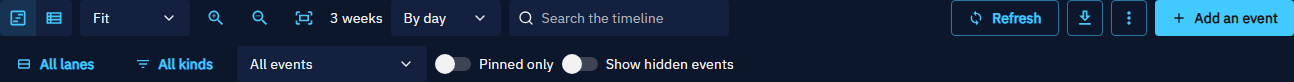
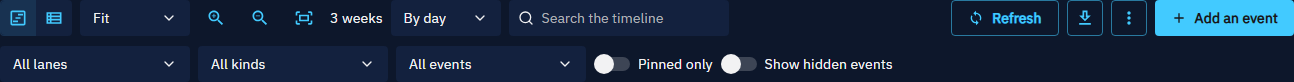
fix(timeline): give the three filters of the timeline toolbar the style of a select (#18681)
- The design-system Select takes a single value: the lanes and kinds
  filters, which take several, use the design-system Combobox in multiple
  mode, read-only, with the summary of the selection in its field
  ("All lanes", "Lanes (2)"). The three filters of the second row are the
  same filled 36 px field, 190 px wide.
- Lanes and kinds share one model: pick the ones to show, every one is
  shown when none is picked, and the clear button resets them
  ("Clear the lanes" in every language file).
- The unit tests, the e2e flow, the user documentation and its screenshots
  follow.

Changed region(s): [[0.2782, 0.6585, 0.711, 0.9024], [0.0, 0.7073, 0.2473, 0.8537]]

diff --git a/opencti-platform/opencti-front/src/private/components/common/timeline/ContainerTimelineToolbar.tsx b/opencti-platform/opencti-front/src/private/components/common/timeline/ContainerTimelineToolbar.tsx
@@ -4,13 +4,18 @@ import {
   Badge,
   ButtonGroup,
   ButtonGroupItem,
-  Checkbox,
+  Combobox,
+  ComboboxClear,
+  ComboboxContent,
+  ComboboxControls,
+  ComboboxField,
+  ComboboxInput,
+  ComboboxTrigger,
   IconButton,
   Menu,
   MenuContent,
   MenuItem,
   MenuLabel,
-  MenuSeparator,
   MenuTrigger,
   SearchField,
   Select,
@@ -27,14 +32,12 @@ import {
 import {
   AddOutlined,
   AutorenewOutlined,
-  FilterListOutlined,
   FitScreenOutlined,
   GetAppOutlined,
   MoreVertOutlined,
   SettingsOutlined,
   SyncOutlined,
   ViewListOutlined,
-  ViewStreamOutlined,
   ViewTimelineOutlined,
   ZoomInOutlined,
   ZoomOutOutlined,
@@ -105,6 +108,60 @@ const ToolbarSwitch = ({ checked, onCheckedChange, label }: { checked: boolean; 
   );
 };
 
+interface ToolbarFilterOption {
+  value: string;
+  label: string;
+  color?: string;
+}
+
+// The design-system Select picks a single value: a filter on several values is the library Combobox in multiple mode,
+// read-only, so that its field shows the summary of the selection where a select shows its value
+const ToolbarMultiFilter = ({ label, summary, clearLabel, options, selected, onSelectedChange, testId }: {
+  label: string;
+  summary: string;
+  clearLabel: string;
+  options: ToolbarFilterOption[];
+  selected: readonly string[];
+  onSelectedChange: (values: string[]) => void;
+  testId: string;
+}) => {
+  const theme = useTheme<Theme>();
+  return (
+    <div style={{ width: 190 }} data-testid={testId}>
+      <Combobox<ToolbarFilterOption>
+        multiple
+        clearable
+        options={options}
+        value={options.filter((option) => selected.includes(option.value))}
+        onValueChange={(next) => onSelectedChange(((next ?? []) as ToolbarFilterOption[]).map((option) => option.value))}
+        getOptionLabel={(option) => option.label}
+        isOptionEqualToValue={(a, b) => a.value === b.value}
+        filterOptions={(all) => all}
+        inputValue={summary}
+        onInputChange={() => {}}
+        selectOnFocus={false}
+        labelPosition="none"
+        renderOption={(option) => (option.color ? (
+          <span style={{ display: 'inline-flex', alignItems: 'center', gap: theme.spacing(1) }}>
+            {/* The marker of the lane in the lanes view */}
+            <span aria-hidden="true" style={{ width: 4, height: 14, borderRadius: 2, backgroundColor: option.color }} />
+            {option.label}
+          </span>
+        ) : option.label)}
+      >
+        <ComboboxField>
+          <ComboboxInput aria-label={label} readOnly style={{ cursor: 'pointer' }} />
+          <ComboboxControls>
+            <ComboboxClear aria-label={clearLabel} />
+            <ComboboxTrigger />
+          </ComboboxControls>
+        </ComboboxField>
+        <ComboboxContent listAriaLabel={label} />
+      </Combobox>
+    </div>
+  );
+};
+
 const ContainerTimelineToolbar = ({
   state,
   onChange,
@@ -128,21 +185,10 @@ const ContainerTimelineToolbar = ({
   const lanes = TIMELINE_LANES.filter((lane) => enabledLanes.includes(lane));
   // A lane kept in the URL but disabled in the settings since is left out, as it is for the events shown
   const requestedLanes = state.lanes.filter((lane) => lanes.includes(lane));
-  const selectedLanes = requestedLanes.length > 0 ? requestedLanes : lanes;
-  const allLanesSelected = selectedLanes.length === lanes.length;
   // The search field follows the URL (for example after "Clear filters") and keeps what is typed until it is submitted
   const [searchText, setSearchText] = useState(state.search ?? '');
   useEffect(() => setSearchText(state.search ?? ''), [state.search]);
 
-  const toggleLane = (lane: TimelineLane) => {
-    const next = selectedLanes.includes(lane) ? selectedLanes.filter((l) => l !== lane) : [...selectedLanes, lane];
-    // Every enabled lane selected is the default view: keep the URL clean
-    onChange({ lanes: next.length === lanes.length || next.length === 0 ? [] : next });
-  };
-  const toggleKind = (kind: string) => {
-    const next = state.kinds.includes(kind) ? state.kinds.filter((k) => k !== kind) : [...state.kinds, kind];
-    onChange({ kinds: next });
-  };
   const sourceValue = state.sources.length === 1 ? state.sources[0] : 'all';
 
   return (
@@ -262,74 +308,25 @@ const ContainerTimelineToolbar = ({
         )}
       </div>
       <div style={{ display: 'flex', alignItems: 'center', gap: theme.spacing(1), flexWrap: 'wrap' }}>
-        <Menu>
-          <MenuTrigger asChild>
-            <Button variant="tertiary" startIcon={<ViewStreamOutlined fontSize="small" />} data-testid="timeline-lanes-filter">
-              {allLanesSelected ? t_i18n('All lanes') : t_i18n('Lanes ({count})', { values: { count: selectedLanes.length } })}
-            </Button>
-          </MenuTrigger>
-          <MenuContent align="start">
-            <MenuLabel>{t_i18n('Lanes')}</MenuLabel>
-            {lanes.map((lane) => {
-              const active = selectedLanes.includes(lane);
-              return (
-                <MenuItem
-                  key={lane}
-                  role="menuitemcheckbox"
-                  aria-checked={active}
-                  startIcon={<Checkbox checked={active} presentational />}
-                  onSelect={(event) => {
-                    // Keep the menu open while several lanes are switched
-                    event.preventDefault();
-                    toggleLane(lane);
-                  }}
-                  data-testid={`timeline-lane-${lane}`}
-                >
-                  <span style={{ display: 'inline-flex', alignItems: 'center', gap: theme.spacing(1) }}>
-                    {/* The marker of the lane in the lanes view */}
-                    <span aria-hidden="true" style={{ width: 4, height: 14, borderRadius: 2, backgroundColor: colors.lanes[lane] }} />
-                    {t_i18n(TIMELINE_LANE_LABELS[lane])}
-                  </span>
-                </MenuItem>
-              );
-            })}
-          </MenuContent>
-        </Menu>
-        <Menu>
-          <MenuTrigger asChild>
-            <Button variant="tertiary" startIcon={<FilterListOutlined fontSize="small" />}>
-              {state.kinds.length > 0 ? t_i18n('Kinds ({count})', { values: { count: state.kinds.length } }) : t_i18n('All kinds')}
-            </Button>
-          </MenuTrigger>
-          <MenuContent align="start" style={{ maxHeight: 360, overflowY: 'auto' }}>
-            <MenuLabel>{t_i18n('Event kinds')}</MenuLabel>
-            {TIMELINE_KINDS.map((kind) => {
-              const checked = state.kinds.includes(kind);
-              // A presentational box renders no label: the row carries the text and the checked state
-              return (
-                <MenuItem
-                  key={kind}
-                  role="menuitemcheckbox"
-                  aria-checked={checked}
-                  startIcon={<Checkbox checked={checked} presentational />}
-                  onSelect={(event) => {
-                    // Keep the menu open while several kinds are picked
-                    event.preventDefault();
-                    toggleKind(kind);
-                  }}
-                >
-                  {t_i18n(TIMELINE_KIND_LABELS[kind])}
-                </MenuItem>
-              );
-            })}
-            {state.kinds.length > 0 && (
-              <>
-                <MenuSeparator />
-                <MenuItem onSelect={() => onChange({ kinds: [] })}>{t_i18n('Clear the kinds')}</MenuItem>
-              </>
-            )}
-          </MenuContent>
-        </Menu>
+        <ToolbarMultiFilter
+          label={t_i18n('Lanes')}
+          summary={requestedLanes.length > 0 ? t_i18n('Lanes ({count})', { values: { count: requestedLanes.length } }) : t_i18n('All lanes')}
+          clearLabel={t_i18n('Clear the lanes')}
+          options={lanes.map((lane) => ({ value: lane, label: t_i18n(TIMELINE_LANE_LABELS[lane]), color: colors.lanes[lane] }))}
+          selected={requestedLanes}
+          // Every enabled lane picked is the default view: keep the URL clean
+          onSelectedChange={(next) => onChange({ lanes: next.length === lanes.length ? [] : next as TimelineLane[] })}
+          testId="timeline-lanes-filter"
+        />
+        <ToolbarMultiFilter
+          label={t_i18n('Event kinds')}
+          summary={state.kinds.length > 0 ? t_i18n('Kinds ({count})', { values: { count: state.kinds.length } }) : t_i18n('All kinds')}
+          clearLabel={t_i18n('Clear the kinds')}
+          options={TIMELINE_KINDS.map((kind) => ({ value: kind, label: t_i18n(TIMELINE_KIND_LABELS[kind]) }))}
+          selected={state.kinds}
+          onSelectedChange={(next) => onChange({ kinds: next })}
+          testId="timeline-kinds-filter"
+        />
         <Select value={sourceValue} onValueChange={(value) => onChange({ sources: value === 'all' ? [] : [value as TimelineSource] })}>
           <SelectTrigger aria-label={t_i18n('Event source')} style={{ minWidth: 190 }}>
             <SelectValue />

diff --git a/opencti-platform/opencti-front/src/private/components/common/timeline/ContainerTimelineToolbar.test.tsx b/opencti-platform/opencti-front/src/private/components/common/timeline/ContainerTimelineToolbar.test.tsx
@@ -41,30 +41,40 @@ describe('ContainerTimelineToolbar', () => {
   it('names every kind of the kinds filter, shows which are selected and toggles them', async () => {
     const onChange = vi.fn();
     const { user } = testRender(<ContainerTimelineToolbar {...toolbarProps(baseState({ kinds: ['sighting'] }), onChange)} />);
-    await user.click(screen.getByRole('button', { name: 'Kinds (1)' }));
-    expect(screen.getAllByRole('menuitemcheckbox')).toHaveLength(TIMELINE_KINDS.length);
-    expect(screen.getByRole('menuitemcheckbox', { name: 'Sighting' })).toHaveAttribute('aria-checked', 'true');
-    const malwareSeen = screen.getByRole('menuitemcheckbox', { name: 'Malware seen' });
-    expect(malwareSeen).toHaveAttribute('aria-checked', 'false');
+    const kinds = screen.getByRole('combobox', { name: 'Event kinds' });
+    expect(kinds).toHaveValue('Kinds (1)');
+    await user.click(kinds);
+    expect(screen.getAllByRole('option')).toHaveLength(TIMELINE_KINDS.length);
+    expect(screen.getByRole('option', { name: 'Sighting' })).toHaveAttribute('aria-selected', 'true');
+    const malwareSeen = screen.getByRole('option', { name: 'Malware seen' });
+    expect(malwareSeen).toHaveAttribute('aria-selected', 'false');
     await user.click(malwareSeen);
     expect(onChange).toHaveBeenCalledWith({ kinds: ['sighting', 'malware_seen'] });
   });
 
-  it('shows every enabled lane selected when the lane kept in the URL was disabled since', async () => {
+  it('shows every lane when the lane kept in the URL was disabled since, and leaves the disabled lane out', async () => {
     const enabled = TIMELINE_LANES.filter((lane) => lane !== 'evidence');
     const { user } = testRender(<ContainerTimelineToolbar {...toolbarProps(baseState({ lanes: ['evidence'] }), vi.fn(), enabled)} />);
-    await user.click(screen.getByRole('button', { name: 'All lanes' }));
-    expect(screen.queryByTestId('timeline-lane-evidence')).toBeNull();
-    enabled.forEach((lane) => expect(screen.getByTestId(`timeline-lane-${lane}`)).toHaveAttribute('aria-checked', 'true'));
+    const lanesFilter = screen.getByRole('combobox', { name: 'Lanes' });
+    expect(lanesFilter).toHaveValue('All lanes');
+    await user.click(lanesFilter);
+    expect(screen.queryByRole('option', { name: 'Evidence' })).toBeNull();
+    expect(screen.getAllByRole('option')).toHaveLength(enabled.length);
+    screen.getAllByRole('option').forEach((option) => expect(option).toHaveAttribute('aria-selected', 'false'));
   });
 
-  it('counts the lanes shown and switches one off from the lanes menu', async () => {
+  it('counts the lanes picked, adds and removes one, and clears them', async () => {
     const onChange = vi.fn();
     const { user } = testRender(<ContainerTimelineToolbar {...toolbarProps(baseState({ lanes: ['adversary', 'detection'] }), onChange)} />);
-    await user.click(screen.getByRole('button', { name: 'Lanes (2)' }));
-    expect(screen.getByRole('menuitemcheckbox', { name: 'Response' })).toHaveAttribute('aria-checked', 'false');
-    await user.click(screen.getByRole('menuitemcheckbox', { name: 'Detection' }));
-    expect(onChange).toHaveBeenCalledWith({ lanes: ['adversary'] });
+    const lanesFilter = screen.getByRole('combobox', { name: 'Lanes' });
+    expect(lanesFilter).toHaveValue('Lanes (2)');
+    await user.click(lanesFilter);
+    await user.click(screen.getByRole('option', { name: 'Detection' }));
+    expect(onChange).toHaveBeenLastCalledWith({ lanes: ['adversary'] });
+    await user.click(screen.getByRole('option', { name: 'Response' }));
+    expect(onChange).toHaveBeenLastCalledWith({ lanes: ['adversary', 'detection', 'response'] });
+    await user.click(screen.getByRole('button', { name: 'Clear the lanes' }));
+    expect(onChange).toHaveBeenLastCalledWith({ lanes: [] });
   });
 
   it('names the switches by their labels and puts the primary action last', async () => {

diff --git a/opencti-platform/opencti-front/tests_e2e/timeline/caseTimeline.spec.ts b/opencti-platform/opencti-front/tests_e2e/timeline/caseTimeline.spec.ts
@@ -30,7 +30,7 @@ const timelineCodename = () => {
  * Derive the timeline of a seeded incident response.
  * Check the overview strip and the position of the Timeline tab (after Content).
  * Check the lanes view, the anchors and the list view kept in the URL.
- * Switch a lane off and open the kinds filter.
+ * Restrict the view to one lane, open the kinds filter and clear the lanes.
  * Open an event with the keyboard, pin it and filter on pinned events.
  * Add a milestone from the drawer form, hide it and show hidden events again.
  * Record a containment and check the containment anchor.
@@ -77,26 +77,22 @@ test('Incident and case timeline', { tag: ['@ce', '@group1'] }, async ({ page, r
     await capture('lanes-populated');
     // endregion
 
-    // region Filters: one lane switched off and the kinds menu open
-    const lanesFilter = page.getByTestId('timeline-lanes-filter');
-    const evidenceLane = page.getByTestId('timeline-lane-evidence');
+    // region Filters: the view restricted to the Response lane (the opening of the case is there) and the kinds list open
+    const lanesFilter = page.getByRole('combobox', { name: 'Lanes' });
     await lanesFilter.click();
-    await evidenceLane.click();
-    await expect(evidenceLane).toHaveAttribute('aria-checked', 'false');
+    const responseLane = page.getByRole('option', { name: 'Response', exact: true });
+    await responseLane.click();
+    await expect(responseLane).toHaveAttribute('aria-selected', 'true');
     await page.keyboard.press('Escape');
-    await expect(lanesFilter).toHaveText(/^Lanes \(\d+\)$/);
+    await expect(lanesFilter).toHaveValue('Lanes (1)');
     await expect(page.getByTestId('timeline-lanes')).toBeVisible();
-    await page.getByRole('button', { name: 'All kinds' }).click();
-    await expect(page.getByText('Event kinds', { exact: true })).toBeVisible();
+    await page.getByRole('combobox', { name: 'Event kinds' }).click();
     // Every kind is a named, checkable row
-    await expect(page.getByRole('menuitemcheckbox', { name: 'Malware seen', exact: true })).toHaveAttribute('aria-checked', 'false');
+    await expect(page.getByRole('option', { name: 'Malware seen', exact: true })).toHaveAttribute('aria-selected', 'false');
     await capture('filters');
     await page.keyboard.press('Escape');
-    await lanesFilter.click();
-    await evidenceLane.click();
-    await expect(evidenceLane).toHaveAttribute('aria-checked', 'true');
-    await page.keyboard.press('Escape');
-    await expect(lanesFilter).toHaveText('All lanes');
+    await page.getByRole('button', { name: 'Clear the lanes' }).click();
+    await expect(lanesFilter).toHaveValue('All lanes');
     // endregion
 
     // region List view, keyboard navigation, pin

diff --git a/docs/docs/usage/case-timeline.md b/docs/docs/usage/case-timeline.md
@@ -125,12 +125,12 @@ When the events cannot be loaded, the tab says so, suggests checking the connect
 - **Lanes** and **List**: the view switch is always visible at the start of the toolbar; the primary action **Add an event** closes it on the right, after **Refresh**, **Export the timeline** and **More actions**. The list view is a vertical, accessible list of events.
 - **Zoom window**: Fit, Day, Week, Month, Quarter or Year; the period currently displayed is shown next to the zoom controls. In the lanes view, use `+` and `-` to zoom, the left and right arrows to pan and `0` to fit. On long incidents, nearby events are grouped into a count bubble that zooms in on click.
 - **Group by**: hour, day or week.
-- **Search** and filters: lanes (**All lanes** menu, every lane shown by default), event kinds (**All kinds** menu), event source (all events, derived from the knowledge or analyst milestones), **Pinned only** and **Show hidden events**.
+- **Search** and filters: lanes and event kinds (pick the ones to show; every lane and every kind is shown when none is picked, and the field counts the ones picked), event source (all events, derived from the knowledge or analyst milestones), **Pinned only** and **Show hidden events**.
 - The current view (filters, zoom, grouping, mode) is kept in the URL, so that a view can be shared with a link.
 - The latest 500 events matching the filters are loaded first and displayed in chronological order; **Show earlier events** loads the previous ones. A link to an older event loads the earlier events until it is reached.
 - In the list view, use the up and down arrows to move between events, `Enter` to open an event, `P` to pin and `H` to hide it.
 
-![Filters of the timeline: the lanes menu open, every lane shown](assets/case-timeline-filters.png)
+![Filters of the timeline: the lanes list open next to the kinds and event source filters](assets/case-timeline-filters.png)
 
 ![List view of the timeline, events grouped by day](assets/case-timeline-list-populated.png)
 
